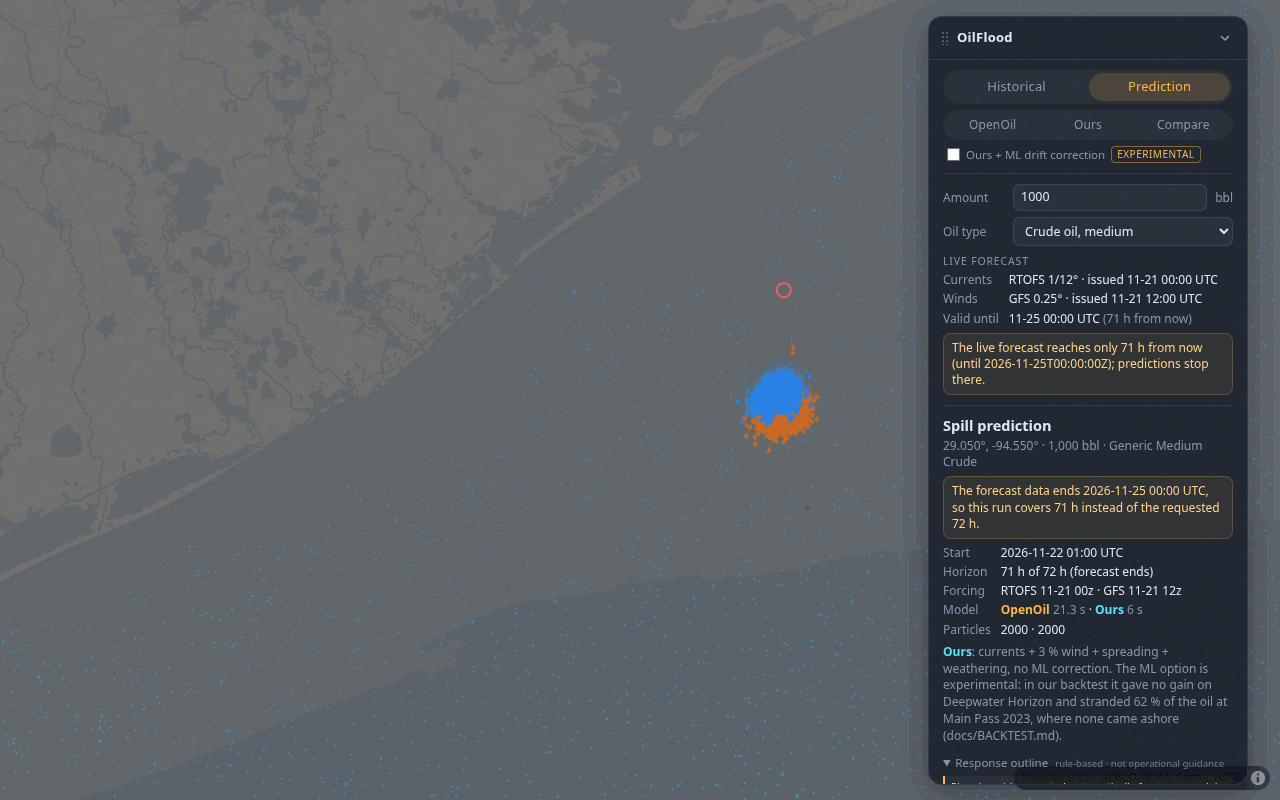
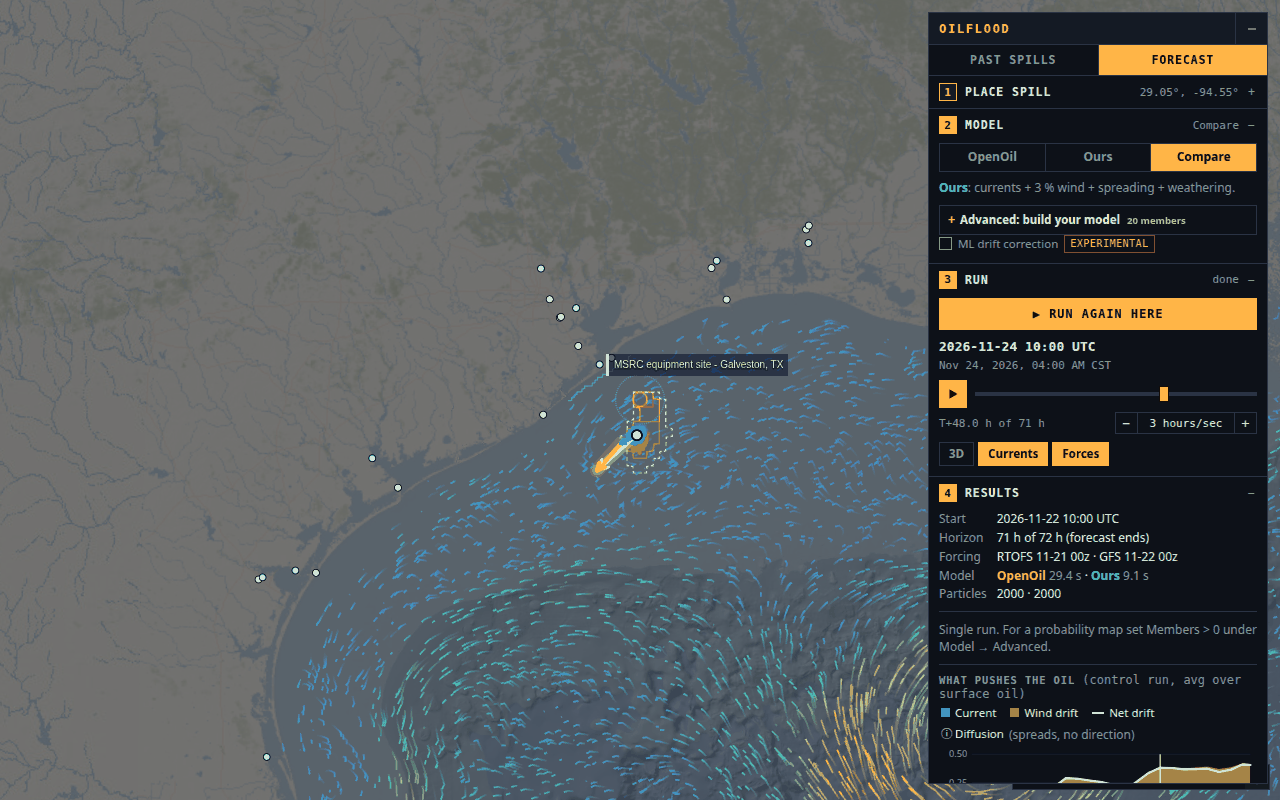
A19 (T26): builder only for Ours forecasts, shorter notes; screenshots with the new UI; README/DEMO labels; SYNC: T26 done

diff --git a/web/src/main.ts b/web/src/main.ts
@@ -637,10 +637,11 @@ function renderContent() {
     } else {
       stPlace = `${j.lat.toFixed(2)}°, ${j.lon.toFixed(2)}°`;
       place += `<div class="kv"><span>Spill at</span><span>${j.lat.toFixed(3)}°, ${j.lon.toFixed(3)}°</span>${j.volume_bbl ? `<span>Amount</span><span>${fmtBbl(j.volume_bbl)}${j.oil_type ? ` · ${esc(j.oil_type)}` : ''}</span>` : ''}</div>`;
-      if (j.note) place += `<div class="warn">${esc(j.note)}</div>`;
+
       const busy = j.status === 'queued' || j.status === 'running' || !!state.ens.msg;
       stRun = busy ? `${pct(j.progress ?? 0)}` : j.status === 'done' ? 'done' : j.status === 'error' ? 'error' : '';
       run += `<button class="primary" id="run-btn" ${busy ? 'disabled' : ''}>${busy ? 'Running…' : '▶ Run again here'}</button>`;
+      if (j.note && !state.live?.note) run += `<div class="warn">${esc(j.note)}</div>`;
       const multi = wanted().length > 1;
       if (!Object.keys(state.jobRuns).length && j.status === 'error') run += `<div class="err">${esc(j.error || 'Run failed')}</div>`;
       for (const mid of wanted()) {
@@ -752,7 +753,7 @@ async function initPredForm() {
     if (!state.job) renderContent();
   };
   mountBuilder($('builder'));
-  $('builder').style.display = state.mode === 'prediction' ? '' : 'none';
+  syncBuilderVis();
   amt.addEventListener('input', save);
   oil.addEventListener('change', save);
   renderForecast();
@@ -768,7 +769,7 @@ function setMode(m: Mode) {
   state.tH = 0;
   map.getCanvas().style.cursor = m === 'prediction' ? 'crosshair' : '';
   $('predform').style.display = m === 'prediction' ? '' : 'none';
-  $('builder').style.display = m === 'prediction' ? '' : 'none';
+  syncBuilderVis();
   const s = scene();
   state.rateIdx = autoRateIdx(s.durationH);
   loadCurrents(s);
@@ -939,12 +940,18 @@ async function runPrediction(m: ModelId, token: number) {
   }
 }
 
+/** The builder (Advanced) only changes our model, and only for forecasts. */
+function syncBuilderVis() {
+  $('builder').style.display = state.mode === 'prediction' && wanted().includes('ours') ? '' : 'none';
+}
+
 /** Model toggle: show OpenOil, ours, or both; runs whatever the current spill is missing. */
 function setModel(m: ModelChoice, run = true) {
   state.model = m;
   try { localStorage.setItem(MODEL_KEY, m); } catch { /* private mode */ }
   panel.querySelectorAll<HTMLButtonElement>('#modelsel button').forEach((b) => b.classList.toggle('on', b.dataset.model === m));
   $('mltoggle').style.display = wanted().includes('ours') ? '' : 'none';
+  syncBuilderVis();
   if (run && state.hist.loadRun && state.selected) for (const id of wanted()) state.hist.loadRun(id);
   if (run && state.job && state.job.lat != null) for (const id of wanted()) if (!state.jobRuns[id]) runPrediction(id, state.jobToken);
   renderContent();
@@ -967,7 +974,7 @@ function modelNoteHTML(s: Scene) {
   const mo = s.runs.ours?.tracks.meta;
   const mlOn = mo ? mo.ml_correction === true : state.ml;
   const c = PALETTES.ours.css;
-  if (!mlOn) return `<div class="hint mnote"><b style="color:${c}">Ours</b>: currents + 3 % wind + spreading + weathering, no ML correction. The ML option is experimental: in our backtest it gave no gain on Deepwater Horizon and stranded 62 % of the oil at Main Pass 2023, where none came ashore (docs/BACKTEST.md).</div>`;
+  if (!mlOn) return `<div class="hint mnote" title="The ML option is experimental: in our backtest it gave no gain on Deepwater Horizon and stranded 62 % of the oil at Main Pass 2023, where none came ashore (docs/BACKTEST.md)."><b style="color:${c}">Ours</b>: currents + 3 % wind + spreading + weathering.</div>`;
   const sk = info?.skill;
   let html = `<div class="hint mnote"><b style="color:${c}">Ours + ML</b> <span class="exp">experimental</span>: `;
   if (sk?.traj_24h) {

diff --git a/SYNC.md b/SYNC.md
@@ -36,12 +36,19 @@ Users: Coast Guard / NOAA-style responders and local emergency managers in the f
 | T23 | Apply real response protocols (PROTOCOLS.md R1–R10) to outline + map layer | Erwin | done (agent A16, branch a15-layer; ready to merge together with T21) |
 | T24 | Ensemble + probability engine + custom model params + METHODOLOGY.md (backend) | Erwin | done (agent A17, branch a17-ensemble; ready to merge) |
 | T25 | 3D probability/forces visuals + model builder + /methodology page (frontend) | Erwin | done (agent A18, branch a18-viz; includes a17-ensemble, ready to merge) |
+| T26 | Minimal block UI: one draggable window, 5 numbered steps, flat style (no rounded corners) | Erwin | done (agent A19, branch a19-ui; includes a18-viz + a17-ensemble, ready to merge) |
 | T9 | Bug fixes: fix logged bugs (small fixes directly; ask in SYNC before big refactors) | Brother | todo |
 
 ## Agents (Erwin's tower)
 Briefs in `agents/`. Each Claude agent works in its own worktree and branch and pushes there; Erwin's bot merges to main.
 
 ## Done log
+- 2026-11-22 A19 (branch a19-ui, T26, frontend only, on top of a18-viz): **minimal block UI.**
+  - One draggable window (`#panel`) with everything in it, read top to bottom: tabs **Past spills | Forecast**, then numbered, collapsible steps **1 Place spill** (spill list, or amount/oil + folded "Live data") → **2 Model** (OpenOil/Ours/Compare, one-line note, "Advanced: build your model" shown only for Ours/Compare forecasts, ML toggle) → **3 Run** (primary **Run forecast** button, progress, time slider, view toggles 3D / Currents / P(oil)·Mass·Off / Forces) → **4 Results** (run details, probability numbers, forces + budget charts, response log, backtest, folded Legend) → **5 Action plan** (response outline + map-layer toggle). Each step header shows a short status (spill, model, "done"/%, "landfall ~50 h"). The header has a minimize button; the window position, minimized state and open/closed steps are saved in localStorage (`oilflood.panel.v2`, `oilflood.steps.v1`). Steps 4 and 5 open when a run finishes. The force-arrow hover tip is the only other floating element (map tooltip).
+  - Behaviour change: the Run button and map clicks both use the Advanced (builder) settings, so a default "Ours" forecast is a 20-member ensemble (~20 s). OpenOil-only runs are unchanged. The current-legend checkbox is replaced by the **Currents** toggle in step 3.
+  - Flat style (`style.css`, `methodology.css`): global `*, ::before, ::after { border-radius: 0 !important }` plus no box-shadow/backdrop blur, solid fills, 1px `#2a3344` borders, one accent `#ffb547`, monospace for labels/numbers, a 4 px spacing grid. Flat range thumbs and tracks, checkboxes, switches, segmented controls, square map pins, MapLibre controls/popups, SVG bars (no `rx`). Data colour ramps and map line caps are left as they were.
+  - Verified in headless Chromium (swiftshader) on :5310 → backend :5250: Padre Island live ensemble (27.0N 97.1W, 20 members, P(oil), forces, action plan, landfall ~50 h), DWH historical (OpenOil hindcast, 1920×1080), Texas City Y Compare with steps folded, minimized window, /methodology. A computed-style scan found 0 elements with a non-zero border-radius on either page. The window stays inside the viewport and nothing in it spills sideways at 1280×800 or 1920×1080. No page errors. `tsc` and `vite build` OK.
+  - Screenshots: new `docs/img/ui_minimal.png`, `ui_minimal_results.png`, `ui_minimal_dwh.png`. Retook home, prediction, compare, global, response, 3d_probability, forces, builder and methodology with the new UI (dwh.png is still the old one, since ui_minimal_dwh.png replaces it in the README). README and DEMO.md button names updated (Run forecast off Galveston, Past spills, Model → Advanced, Run with these).
 - 2026-11-22 A18 (branch a18-viz, T25, includes origin/a17-ensemble): **3D probability + forces views, model builder, /methodology (frontend).**
   - `web/src/ensemble.ts`: probability grid client (GET /probability, /forces, /model/params). 3D: `3D` button / key `3` tilts to pitch 58° and flies to fit the probability footprint; P(oil) (or expected mass) as extruded ColumnLayer cells, linearly interpolated between the 3 h steps every frame (binary attributes, O(active cells)); 50 % / 90 % contours by marching squares (recomputed every 0.25 h of sim time) draped on the sea; ESI shoreline segments as ribbons coloured/widened by P(oiled by t). Forces: chained arrows (current → wind drift → Stokes → ML) + white net drift at the ensemble mean centroid (particle centroid for single runs), adaptive km-per-m/s scale, hover tooltip with one sentence + KaTeX equation.
   - `web/src/forcesChart.ts` (lazy-loaded with KaTeX): stacked drift speed by force + net-drift line, oil budget chart; clock cursor follows the slider, crosshair tooltip on hover, legend chips explain each force. Palettes validated with the dataviz validator (dark surface).
@@ -155,6 +162,7 @@ Format: `- [open|fixed] short title — steps to reproduce — who found / who f
 - [fixed] Prediction click on land (e.g. inland Mexico, outside the frontend's coarse mask) returns `Simulation stopped within first timestep`; the UI shows the error, but the backend could return a friendlier "seed point on land" — found by A3 / fixed by A5 (400 "That spot is on land" / "in a bay ... the model treats as land"; also fixed roaring_landmask call that always said water)
 
 ## Blockers
+- A19 merge note (T26): frontend + docs only, branch a19-ui = a18-viz + the UI pass (merge a19-ui instead of a18-viz, it contains a18 and a17). After merging: `cd web && npm install && npm run build`, restart :5200. Users with an old saved window position get the default position once (the localStorage key changed to v2). A default "Ours" forecast is now a 20-member ensemble (the builder default), so it takes ~20 s, longer while the tower is busy. If that is too slow for the demo, set Members to 0 under Advanced. DEMO.md button names were updated; the narration timing was not re-checked.
 - A18 merge note (T25): merge a18-viz (it contains a17-ensemble). After merging: `cd web && npm install` (new deps katex, marked), `npm run build` (now emits dist/index.html + dist/methodology/index.html), restart :5200. The 3D/forces/builder features need A17's backend (same merge). Perf: per-frame work is O(cells with oil) (~100 for a 1,000 bbl spill) plus the existing layers; I could only measure in swiftshader on the loaded tower (2.5 fps there, same as before the change), so check 60 fps on a GPU laptop before recording. An ensemble of 20 took ~60 s while A17's calibration jobs were running (A17 measured ~20 s idle).
 - A17 merge note (T24): backend only (+ docs, + data/backtest/ensemble_calibration.json). After merging: restart :5200 (new routes; ensemble workers are a second spawn pool, default 16 processes, set OILFLOOD_ENS_WORKERS lower if the tower is busy). Cached response.json files rebuild automatically (resp-v4); non-ensemble outlines are unchanged in content. Existing ours runs keep their hashes. A18 (a18-viz) builds against docs/ENSEMBLE.md. Known limits: ensemble ellipses under-dispersive on DWH; members use min(particles, 1000); wind-direction sigma is a stated 20 deg (no GEFS spread cached).
 - A16 merge note (T23): merge a15-layer (T21 + T23 together). After merging: `cd web && npm run build`, restart :5200. Cached `response.json` files rebuild automatically (version resp-v3). The backend imports OpenDrift's ADIOS database in the API process for oil properties (lru-cached, ~1 s first call). No new data files. Today's live forecast has offshore NE wind at Galveston, so a Galveston click shows no landfall/boom sites; the Padre Island click shows the boom logic. Open gaps: waves, visibility/ceiling, ACP/GRP priority areas, ISB reef exclusion maps (PROTOCOLS.md section 5 status).

diff --git a/README.md b/README.md
@@ -13,18 +13,22 @@ real data; there are no mocks. Built at EvoHacks 2 (Projects for Social Good).
 ## Screenshots
 Taken from a local test server on 2026-11-22 (UTC) with the live forecast of that day and the real historical data.
 
+The UI is one draggable, minimizable window that you work through from top to bottom: **1 Place spill → 2 Model → 3 Run → 4 Results → 5 Action plan**. It uses a flat block style (no rounded corners) with one accent colour, and each step folds away.
+
 | | |
 |---|---|
+| ![One window, five steps](docs/img/ui_minimal.png) | ![Results and action plan](docs/img/ui_minimal_results.png) |
+| **One window:** a live ensemble forecast off Padre Island (27.0°N 97.1°W) with steps 1–3 open. Step 1: spill point, amount and oil. Step 2: model and Advanced (build your model). Step 3: Run, time slider and view toggles (3D, Currents, P(oil)/Mass/Off, Forces). | **Steps 4–5:** probability numbers, force and oil-budget charts, then the action plan. Past spills (here Deepwater Horizon at 1920×1080) are in [`docs/img/ui_minimal_dwh.png`](docs/img/ui_minimal_dwh.png). |
 | ![Home](docs/img/home.png) | ![Prediction](docs/img/prediction.png) |
-| **Home:** the globe flies to Houston/Galveston with live NOAA RTOFS currents and the historical spill pins. | **Prediction:** "Release it off Galveston" (1,000 bbl medium crude) on the live RTOFS + GFS forecast; slick at T+48 h, forecast block and run details. |
+| **Home:** the globe flies to Houston/Galveston with live NOAA RTOFS currents and the historical spill pins. | **Forecast:** a spill off Galveston (1,000 bbl medium crude) on the live RTOFS + GFS forecast; slick at T+48 h, forecast block and run details. |
 | ![Compare](docs/img/compare.png) | ![Deepwater Horizon](docs/img/dwh.png) |
-| **Compare:** OpenOil (amber) and our model (blue) on the same spill, with the experimental ML toggle (off). | **Historical → Deepwater Horizon:** NOAA/NESDIS observed outline for 2010-06-02 over the HYCOM reanalysis currents. |
+| **Compare:** OpenOil (amber) and our model (blue) on the same spill; step 1 folded away. | **Historical → Deepwater Horizon:** NOAA/NESDIS observed outline for 2010-06-02 over the HYCOM reanalysis currents. |
 | ![Global currents](docs/img/global.png) | ![Response outline](docs/img/response.png) |
 | **Zoomed out:** global RTOFS surface currents. | **Response outline** for a live spill off Padre Island: numbered priority shorelines (NOAA ESI) on the map, first landfall, boom-first list and dispersant/burn/skimming windows. |
 | ![3D probability](docs/img/3d_probability.png) | ![Forces](docs/img/forces.png) |
 | **3D probability view:** a 20-member ensemble of our model for a live spill off Padre Island (27.0°N 97.1°W) at T+40 h. Column height and colour = P(oil present); shorelines show P(oiled) and P10/P50/P90 arrival times. | **Forces view:** chained arrows at the slick centre (current → wind drift → net drift), hover explains each force with its equation; panel charts the drift speed by force and the oil budget over 72 h. |
 | ![Model builder](docs/img/builder.png) | ![Methodology](docs/img/methodology.png) |
-| **Build your model:** every parameter from `GET /api/model/params` with units, defaults and a cited tooltip, ensemble size, compare with OpenOil, shareable link. | **/methodology:** Data → Model → Ensemble → Protocol gates → Action plan, with equations (KaTeX), the parameter table and live validation numbers. |
+| **Model → Advanced (build your model):** every parameter from `GET /api/model/params` with units, defaults and a cited tooltip, ensemble size, compare with OpenOil, shareable link. | **/methodology:** Data → Model → Ensemble → Protocol gates → Action plan, with equations (KaTeX), the parameter table and live validation numbers. |
 
 ## Features
 - **Prediction mode (live).** Click anywhere in the Gulf of Mexico (or use the suggested point off Galveston). Pick the amount
@@ -54,7 +58,7 @@ Taken from a local test server on 2026-11-22 (UTC) with the live forecast of tha
   in the panel: drift speed by force over time and the oil budget (surface / evaporated / dispersed / stranded).
 - **Build your own model.** A panel section generated from `GET /api/model/params`: windage, diffusivity, current multiplier,
   Stokes drift, each weathering process, ML, particles, horizon, ensemble size; every slider shows units and default and its
-  tooltip cites the source. *Run my model* reruns it at the same spill (optionally next to OpenOil) and the panel lists what
+  tooltip cites the source. *Run with these* (under Model → Advanced) reruns it at the same spill (optionally next to OpenOil) and the panel lists what
   changed vs your previous run (earliest P10 landfall, P(oiled) per shoreline, likely area). *Share* copies a link with the
   params (`?mode=prediction&lat=27&lon=-97.1&model=ours&ens=20&p=windage_pct:4,stokes:1`).
 - **Probabilistic action plan.** With an ensemble the response outline ranks shorelines by P(oiled within 72 h) × ESI

diff --git a/docs/DEMO.md b/docs/DEMO.md
@@ -21,7 +21,7 @@ Judging criteria: **I** = impact, **T** = technical execution, **C** = creativit
 
 ### 0:15 – 0:45 · Live prediction (T, P)
 - **Screen:** in the panel set *Oil type* = **Bunker fuel (IFO 380)** and *Amount* = **4000** bbl (the Texas City "Y" scale).
-  Point the cursor at the **Live forecast** block. Click **Release it off Galveston**. The progress bar runs, then the slick plays.
+  In step 1 point at **Live data**. In step 3 click **Run forecast off Galveston**. The progress bar runs, then the slick plays.
   Drag the time scrubber from 0 to 72 h, then let it play.
 - **Say:** "I'll release four thousand barrels of bunker fuel thirty kilometres off Galveston, starting now. It runs on NOAA's
   RTOFS currents and GFS winds, refreshed four times a day: `[read: currents issued …, valid until …]`. Two thousand particles drift, spread, evaporate and strand on the coast for 72 hours.
@@ -39,8 +39,8 @@ Judging criteria: **I** = impact, **T** = technical execution, **C** = creativit
 - **Screen:** open https://oilflood.xyz/?mode=prediction&lat=27.0&lon=-97.1&model=ours&ens=20 beforehand (Padre Island,
   20-member ensemble; it is cached after the first run). The map flies into 3D on its own and the probability columns rise.
   Drag the time slider so the columns grow and spread toward the shore. Click **Forces**, hover the blue (current) and amber
-  (wind) arrows so the explanation pops up. Then open **Build your model**, drag *Wind drift* to 4 %, switch on *Stokes drift*,
-  press **Run my model**; when it finishes, hold on **What changed vs your last run**.
+  (wind) arrows so the explanation pops up. Then open **Model → Advanced: build your model**, drag *Wind drift* to 4 %, switch on *Stokes drift*,
+  press **Run with these**; when it finishes, hold on **What changed vs your last run**.
 - **Say:** "One forecast is a guess, so we run twenty, each with different wind drift, wind direction and current error.
   The height is the probability of oil. These arrows are what pushes it: the current, the wind, and where they add up.
   And anyone can build their own model: more wind drift, Stokes drift on, run it, and see the plan change:
@@ -57,7 +57,7 @@ Judging criteria: **I** = impact, **T** = technical execution, **C** = creativit
   quote. It's a planning aid; the On-Scene Coordinator decides."
 
 ### 1:50 – 2:20 · History and honesty (T, I)
-- **Screen:** switch to **Historical**, pick **Deepwater Horizon**. The NESDIS satellite outlines and the hindcast appear; press play
+- **Screen:** switch to the **Past spills** tab, pick **Deepwater Horizon**. The NESDIS satellite outlines and the hindcast appear; press play
   for a few seconds. Open **Response log** and click one date so the clock jumps. Then open **Backtest** and hold on the table.
 - **Say:** "Historical mode replays nine real Gulf spills on the ocean reanalysis for their dates, with 280 logged responder
   actions, each with a verbatim source quote. For Deepwater Horizon we scored both models against 94 days of NOAA satellite
@@ -97,7 +97,7 @@ Judging criteria: **I** = impact, **T** = technical execution, **C** = creativit
 - [ ] Check `https://oilflood.xyz/api/live`: `stale` is false and `hours_available` is close to 72. The forecast refreshes at
       02/08/14/20:30 UTC. Record **after** a refresh, not across one: runs are cached per forecast, and a new forecast means a
       new ~20 s run on camera.
-- [ ] Do the whole prediction once off camera: **Release it off Galveston** with IFO 380 / 4000 bbl, then **Compare**, then open
+- [ ] Do the whole prediction once off camera: **Run forecast off Galveston** with IFO 380 / 4000 bbl, then **Compare**, then open
       **Response outline**. On camera the same click then loads from cache.
 - [ ] Read the outline. If it shows **no landfall** within 72 h for this forecast, either say "no landfall forecast in 72 hours,
       these shorelines are threatened" (if threatened stretches are listed) or click a point closer to shore and preload that
